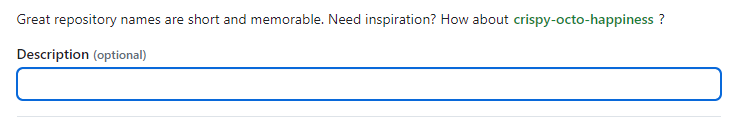
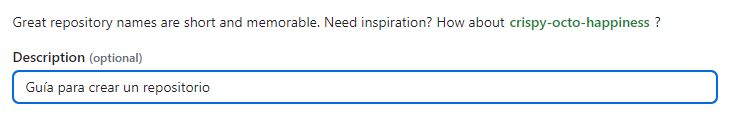
actualizacion3

Changed region(s): [[0.0, 0.3782, 0.9945, 0.8824], [0.0, 0.1008, 0.9342, 0.2521], [0.0301, 0.9076, 0.9945, 0.9328]]

diff --git a/galeria.html b/galeria.html
@@ -2,23 +2,31 @@
 <html lang="en">
 <head>
     <meta charset="UTF-8">
-    <link rel="stylesheet" href="estilo.css">
+    <link rel="stylesheet" href="estilos.css">
     <meta name="viewport" content="width=device-width, initial-scale=1.0">
     <title>Galeria </title>
 </head>
 <body>
-   <h1>Como crear un repositorio</h1> 
+   <h1>Guía para crear un repositorio</h1> 
    <div>
         <img src="images/4.png" alt="No se pudo cargar la imagen">
-        <p>En la esquina superior derecha de cualquier página, selecciona  y luego haz clic en Nuevo repositorio.</p>
+        <p><b>1.</b> En la esquina superior derecha de cualquier página,<br>selecciona  y luego haz clic en Nuevo repositorio.</p>
    </div>
    <div>
         <img src="images/5.png" alt="No se pudo cargar la imagen">
-        <p>Escriba un nombre corto y fácil de recordar para el repositorio. Por ejemplo: "proyecto".</p>
+        <p><b>2.</b> Escriba un nombre corto y fácil de recordar para el repositorio. Por ejemplo: "proyecto".</p>
    </div>
    <div>
         <img src="images/6.png" alt="No se pudo cargar la imagen">
-        <p>Opcionalmente, puede agregar una descripción del repositorio. </p>
+        <p><b>3.</b> Opcionalmente, puede agregar una descripción del repositorio.</p>
    </div>
+   <div>
+        <img src="images/7.png" alt="No se pudo cargar la imagen">
+        <p><b>4.</b> Elige la visibilidad del repositorio segun la necesidad.</p>
+    </div>
+    <div>
+        <img src="images/8.png" alt="No se pudo cargar la imagen">
+        <p><b>5.</b>Seleccione Initialize this repository with a README (Inicializar este repositorio con un archivo Léame).</p>
+    </div>
 </body>
 </html>
